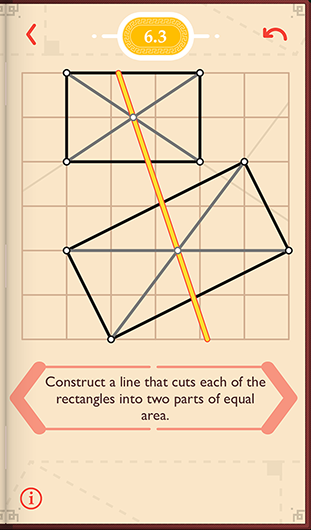
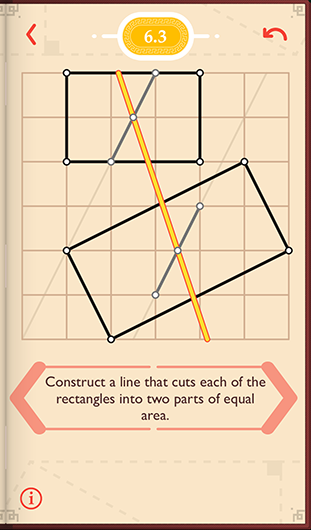
添加答案Pythagorea

diff --git a/Pythagorea.md b/Pythagorea.md
@@ -1,11 +1,108 @@
 ##Pythagorea解法
 apple app store里Pythagorea游戏的解法，低难度题目略。
+
+
 ####§ 6.3
 画直线等分两个矩形  
 ![6.3](solving/Pythagorea/6.3.png)
+
+####§ 6.10
+过节点A画垂线  
+![6.10](solving/Pythagorea/6.10.png)
+
+####§ 6.12
+给定一条边和对面中点A，画平行四边形  
+![6.12](solving/Pythagorea/6.12.png)
+
+####§ 6.18
+2/5处画点  
+![6.18](solving/Pythagorea/6.18.png)
+
 ####§ 6.19
 找出和A节点距离为5的节点。偏移A节点3行4列处的点，距离也为5。勾3股4弦5  
 ![6.19](solving/Pythagorea/6.19.png)
+
+####§ 7.2
+过节点A画角平分线，中线和顶垂线  
+![7.2](solving/Pythagorea/7.2.png)
+
+####§ 7.3
+过A画两条直线3使矩形面积3等分  
+![7.3](solving/Pythagorea/7.3.png)
+
+####§ 7.6
+画45度角  
+![7.6](solving/Pythagorea/7.6.png)
+
+####§ 7.9
+画出所有顶垂线  
+![7.9](solving/Pythagorea/7.9.png)
+
+####§ 7.13
+在线上画一点，到给定的两点距离一样  
+![7.13](solving/Pythagorea/7.13.png)
+
+####§ 7.21
+画出所有的过C点，并且距离AB相等的线  
+![7.21](solving/Pythagorea/7.21.png)
+
+####§ 8.1
+找中点，Y轴3个单位，中点在Y轴1.5单位处  
+![8.1](solving/Pythagorea/8.1.png)
+
+####§ 8.4
+给定2个顶点画正方型  
+![8.4](solving/Pythagorea/8.4.png)
+
+####§ 8.7
+给定一条边和对边的中点，画平行四边型  
+![8.7](solving/Pythagorea/8.7.png)
+
+####§ 8.8
+在线段5分之2处画点  
+![8.8](solving/Pythagorea/8.8.png)
+
+####§ 8.10
+画垂分线  
+![8.10](solving/Pythagorea/8.10.png)
+
+####§ 8.12
+过C点画线，要求直线距离AB相等。一条过C的平等线，和一条过C的平分线。  
+![8.12](solving/Pythagorea/8.12.png)
+
+####§ 8.13
+三分线段  
+![8.13](solving/Pythagorea/8.13.png)
+
+####§ 8.14
+标注出和A点距离为根号5的节点  ，编辑一个日字节点，距离都是50
+![8.14](solving/Pythagorea/8.14.png)
+
+####§ 8.17
+角平分线  
+![8.17](solving/Pythagorea/8.17.png)
+
+####§ 8.18
+角平分线，先画个正方型，对角线就是答案  
+![8.18](solving/Pythagorea/8.18.png)
+
+####§ 8.19
+找到垂分线的交点（重心）  
+![8.19](solving/Pythagorea/8.19.png)
+
+####§ 8.22
+给定线段的中点，画正方形  
+![8.22](solving/Pythagorea/8.22.png)
+
+####§ 8.28
+在射线上，标注距离A点1个单位的点  
+![8.28](solving/Pythagorea/8.28.png)
+
+####§ 8.29
+画中点  
+![8.29](solving/Pythagorea/8.29.png)
+
+
 
 
 
